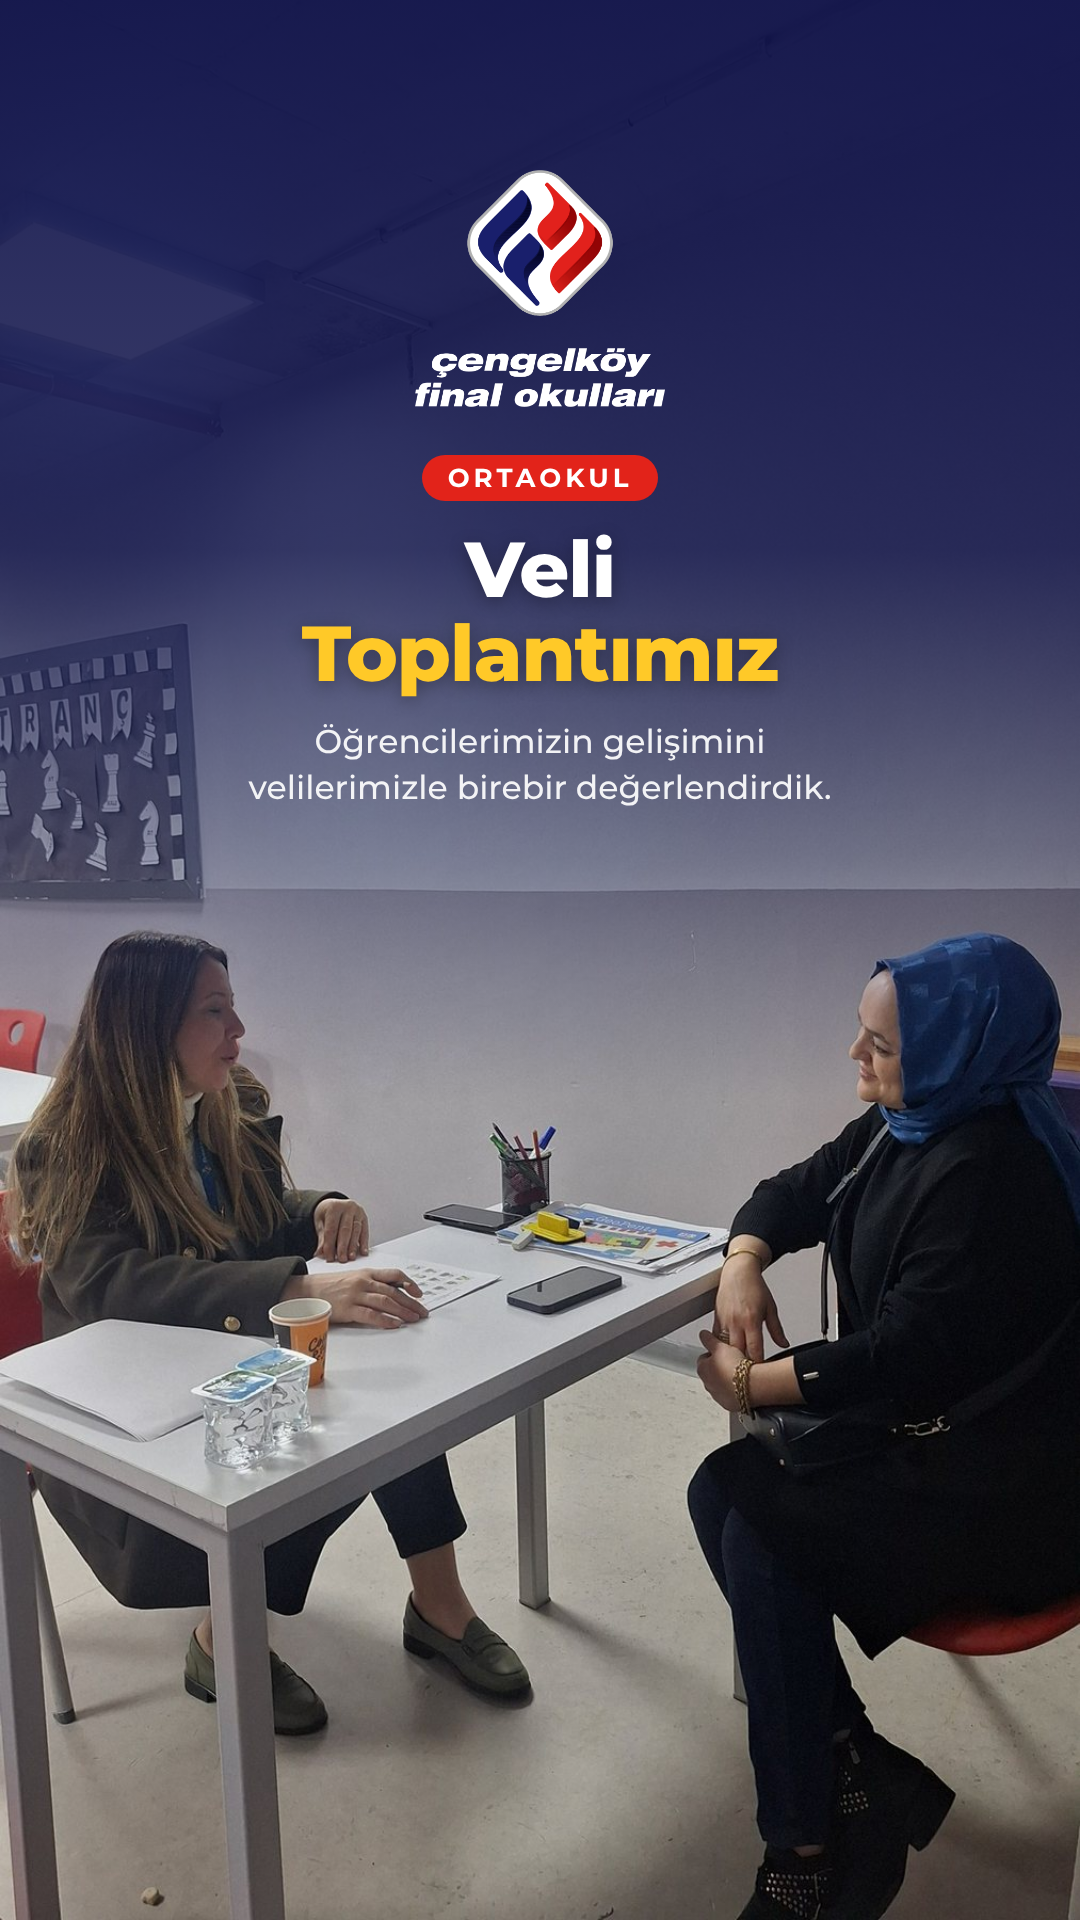
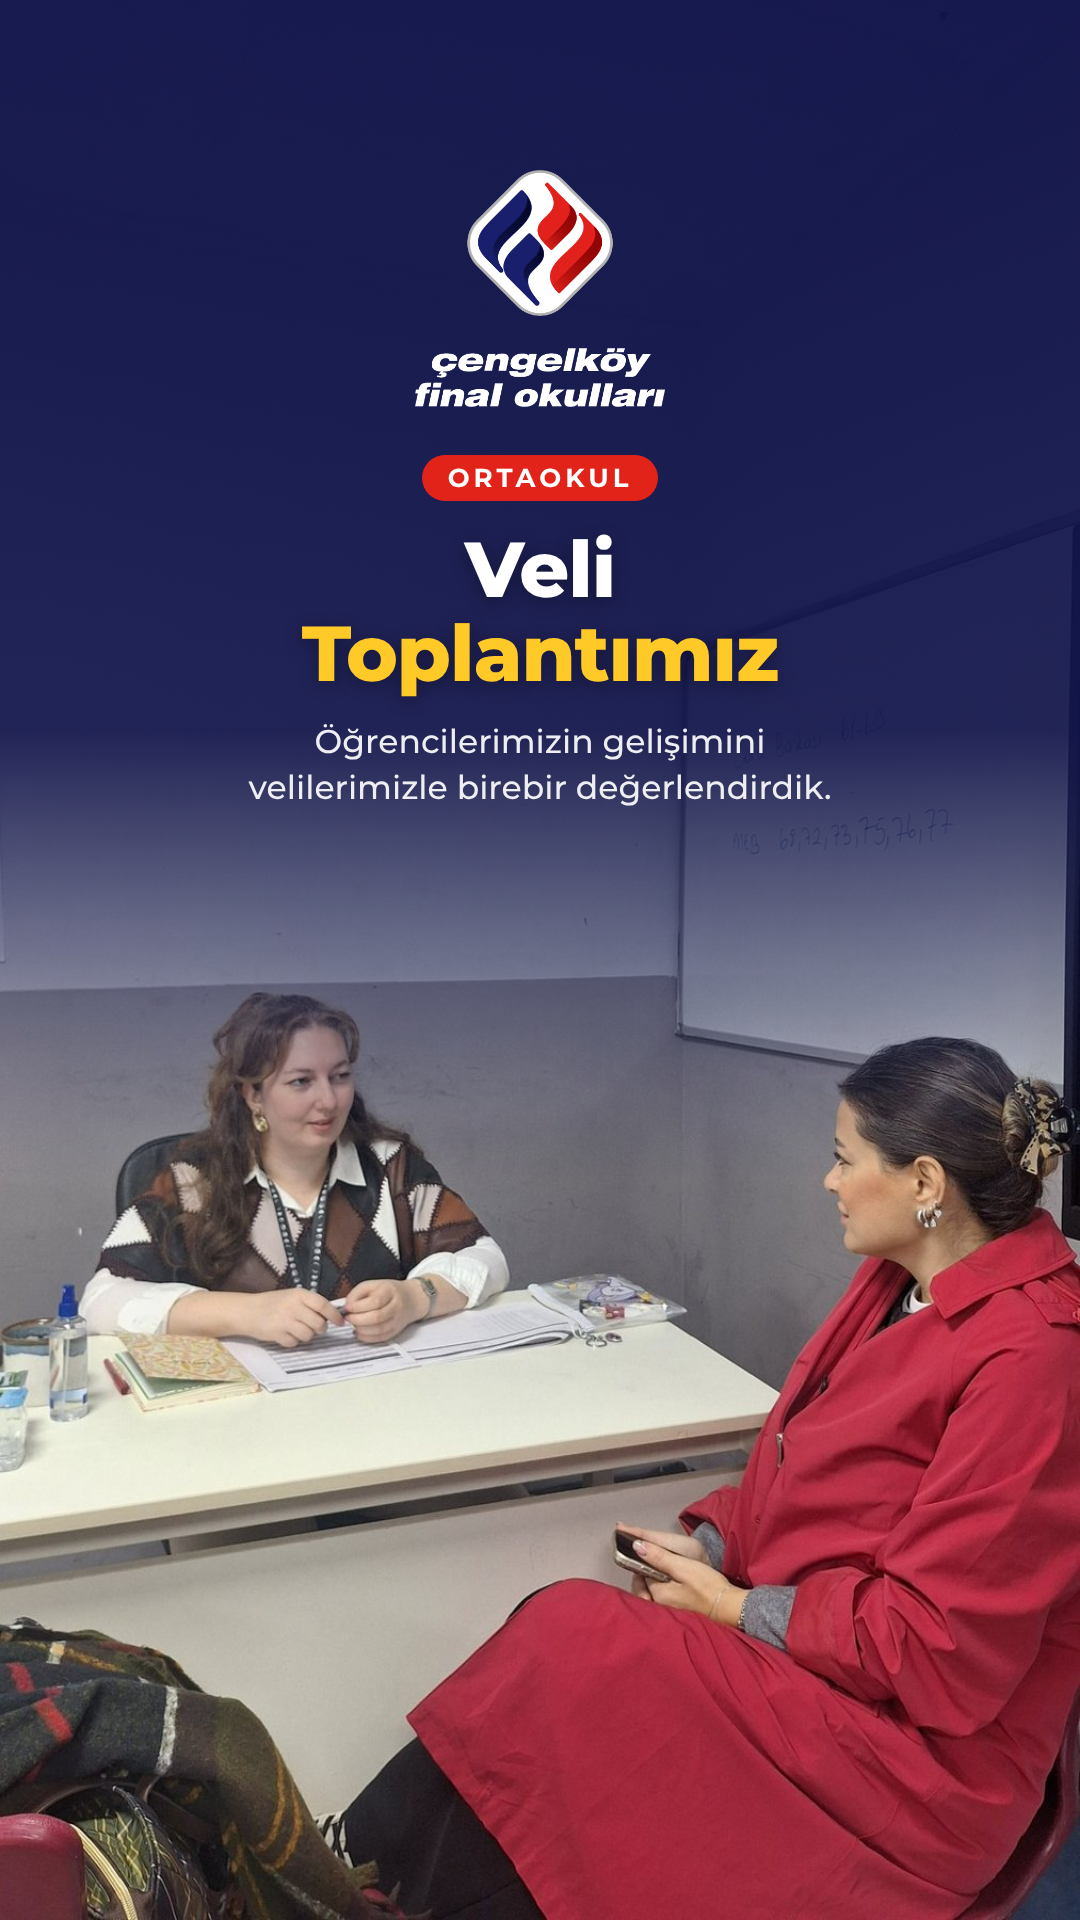
Veli toplantısı: kapak fotoğrafı f17 ile değişti, f14 5. hikayeye geçti
Claude-Session: https://claude.ai/code/session_018nTNZEPUFJ3xvggTUswJUo

diff --git a/marka/cengelkoy-final/ortaokul-veli-toplantisi-2026/hikaye-5.html b/marka/cengelkoy-final/ortaokul-veli-toplantisi-2026/hikaye-5.html
@@ -7,14 +7,14 @@
 .logo{top:160px;width:190px}
 .m{top:382px}
 .baslik{font-size:62px;margin-top:22px}
-.g1 img{object-position:50% 85%}.g2 img{object-position:50% 70%}
+.g1 img{object-position:50% 90%}.g2 img{object-position:50% 70%}
 .g3 img{object-position:50% 70%}.g4 img{object-position:50% 80%}
 </style></head>
 <body><div class="story zemin-lacivert izgara">
 <div class="logo"><img src="gorseller/logo-beyaz-yazi.png" alt="Çengelköy Final Okulları"></div>
 <div class="ortala m"><span class="etiket">GELİŞİM TAKİBİ</span>
 <div class="baslik">Adım adım <em>birlikte</em></div></div>
-<div class="kare g1"><img src="gorseller/f17.jpg" alt=""></div>
+<div class="kare g1"><img src="gorseller/f14.jpg" alt=""></div>
 <div class="kare g2"><img src="gorseller/f18.jpg" alt=""></div>
 <div class="kare g3"><img src="gorseller/f19.jpg" alt=""></div>
 <div class="kare g4"><img src="gorseller/f20.jpg" alt=""></div>

diff --git a/marka/cengelkoy-final/ortaokul-veli-toplantisi-2026/hikaye-1.html b/marka/cengelkoy-final/ortaokul-veli-toplantisi-2026/hikaye-1.html
@@ -4,14 +4,14 @@
 <title>Veli Toplantısı Hikaye 1</title>
 <link rel="stylesheet" href="ortak.css">
 <style>
-.karartma-ust{height:1100px}
+.karartma-ust{height:1180px;background:linear-gradient(180deg,rgba(16,19,74,.95) 0%,rgba(16,19,74,.9) 62%,rgba(16,19,74,0) 100%)}
 .logo{top:170px;width:250px}
 .m{top:455px}
 .baslik{font-size:78px;margin-top:26px}
 .alt-metin{margin-top:24px}
 </style></head>
 <body><div class="story">
-<img class="foto-tam" src="gorseller/f14.jpg" alt="" style="object-position:50% 100%">
+<img class="foto-tam" src="gorseller/f17.jpg" alt="" style="object-position:50% 100%">
 <div class="karartma-ust"></div>
 <div class="logo"><img src="gorseller/logo-beyaz-yazi.png" alt="Çengelköy Final Okulları"></div>
 <div class="ortala m"><span class="etiket">ORTAOKUL</span>

diff --git a/marka/cengelkoy-final/ortaokul-veli-toplantisi-2026/README.md b/marka/cengelkoy-final/ortaokul-veli-toplantisi-2026/README.md
@@ -4,11 +4,11 @@
 
 | Dosya | Fotoğraf | Metin |
 |---|---|---|
-| hikaye-1 | f14 (tam ekran) | ORTAOKUL · Veli Toplantımız |
+| hikaye-1 | f17 (tam ekran) | ORTAOKUL · Veli Toplantımız |
 | hikaye-2 | f5 büyük + f12, f1 | BİREBİR GÖRÜŞME · Her öğrenci özel |
 | hikaye-3 | f3 büyük + f2, f4 | VELİ TOPLANTISI · Birlikte konuştuk |
 | hikaye-4 | f6, f7, f11, f13 | OKUL VE AİLE · El ele aynı hedefe |
-| hikaye-5 | f17, f18, f19, f20 (ikinci gönderim) | GELİŞİM TAKİBİ · Adım adım birlikte |
+| hikaye-5 | f14, f18, f19, f20 | GELİŞİM TAKİBİ · Adım adım birlikte |
 | hikaye-6 | f9, f15, f10, f16 | TEŞEKKÜRLER · Katılımınız için teşekkür ederiz |
 
 f8 (IMG_7061) kullanılmadı.
